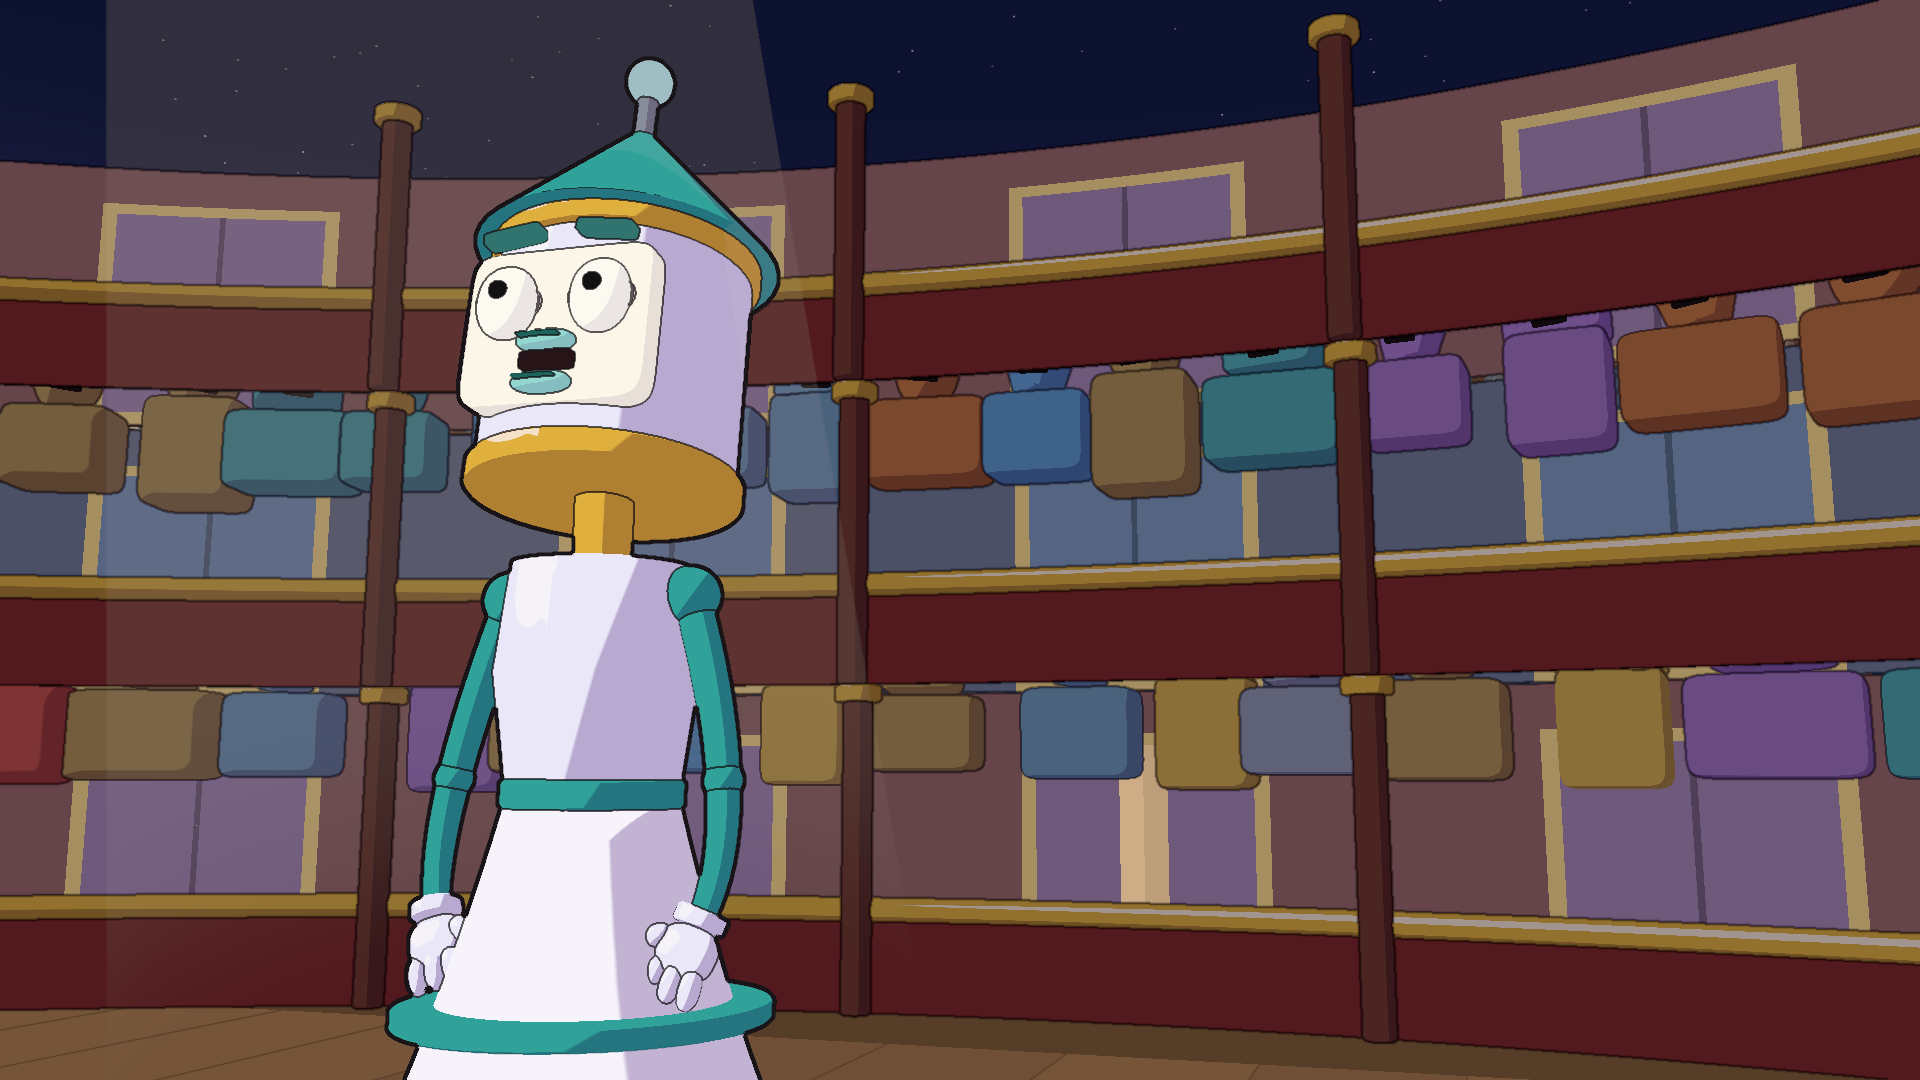
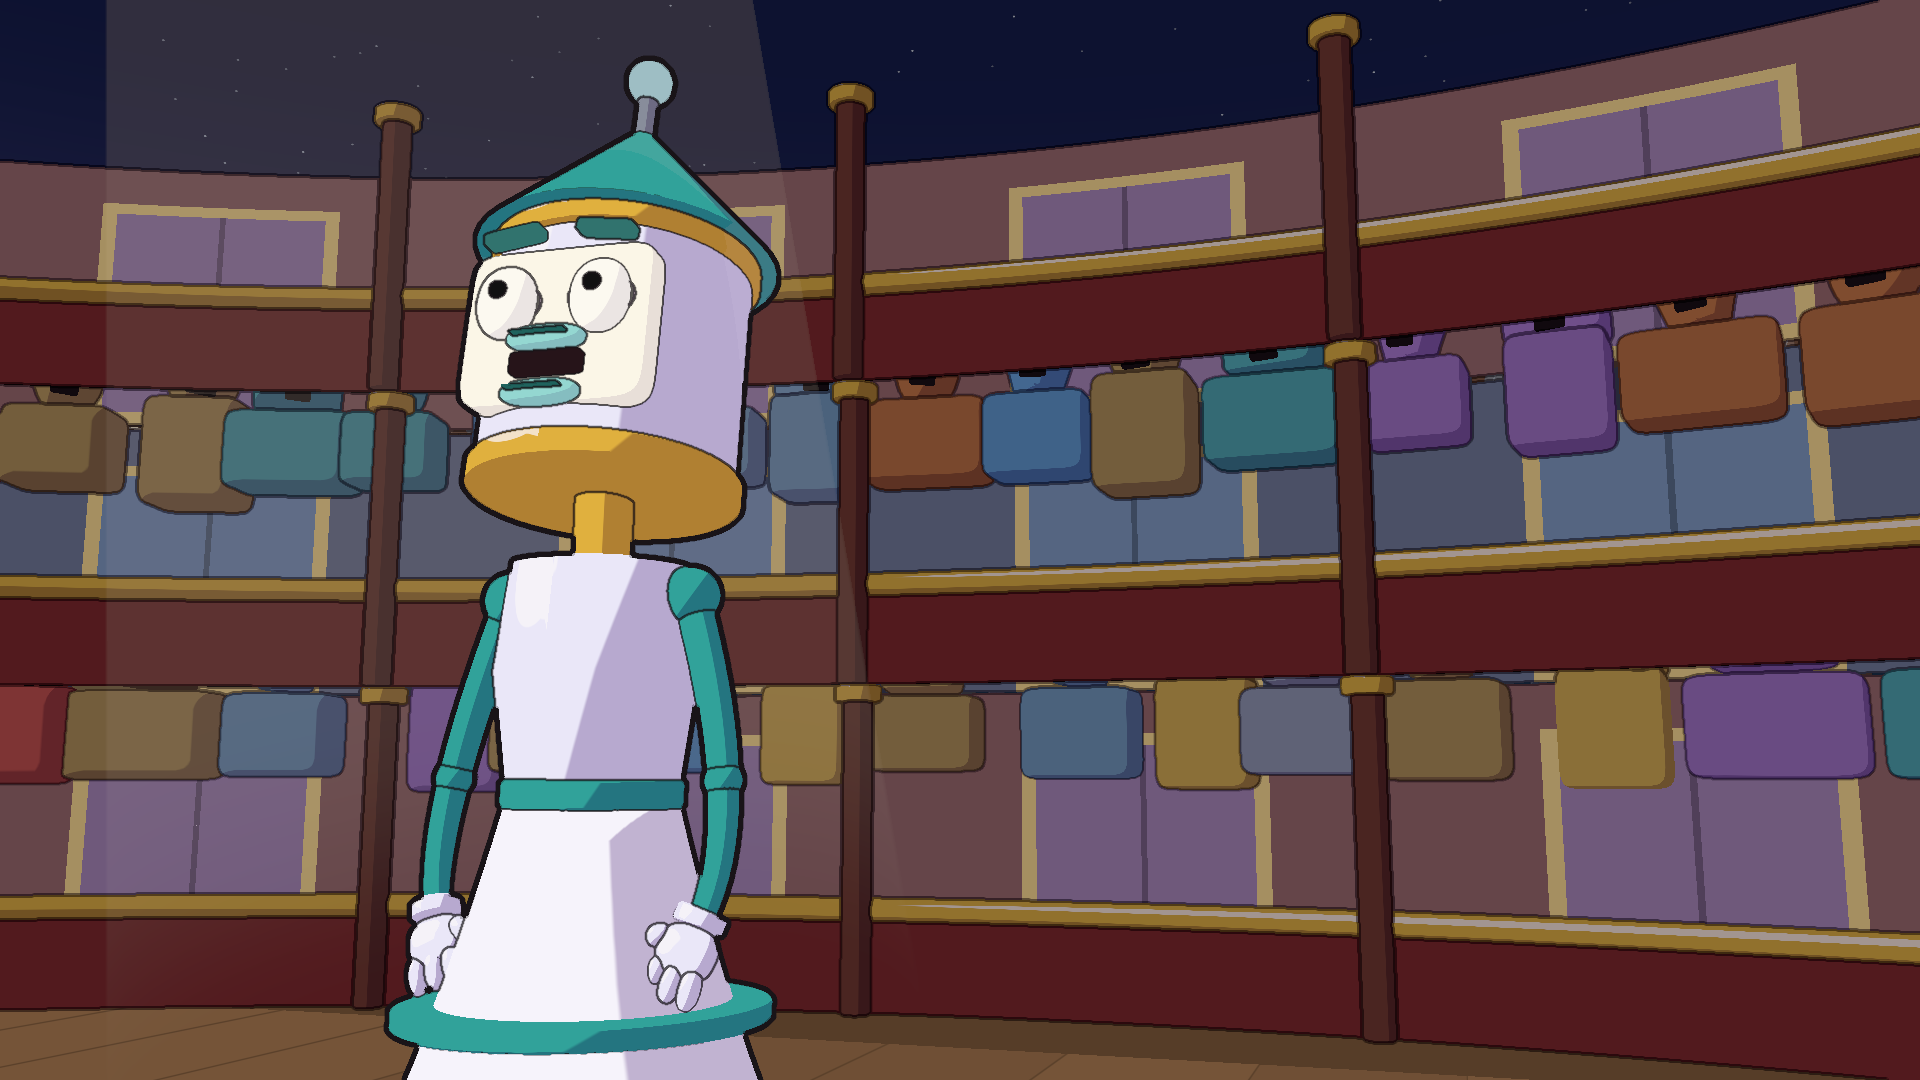
Awakening round 3: theatre wide, door insert, crowd reaction and OTS
Add a composed theatre wide on "A billion minds" (arch, marquee,
footlights up on "A", stalls silhouettes), a lower-tier door insert on
"doors" (house wake delayed 0.5 s in this window so the doors are seen
closed, sliding, then occupants rising in awe), a house-left crowd
reaction with held crowdAwe, and an over-the-shoulder from a
middle-tier spectator while Aria sings "They taught us how to" to the
house. The close-up and closing wide move to house left so the cut to
question's opening keeps screen direction; the closing wide is lower
so the gold neck stays visible. Evidence replaced in qa/awakening.

Claude-Session: https://claude.ai/code/session_011WPKpg2zyQnB4zGcunqiut

diff --git a/visuals/one-more-dawn/src/lib/clips/awakening.ts b/visuals/one-more-dawn/src/lib/clips/awakening.ts
@@ -4,27 +4,31 @@
 // it here; do not edit shared engine, cast or set files from a clip lane.
 //
 // Shot list (song seconds; cuts land on sung words or just before them):
-//   S1  0.00 –  3.57  Establishing: closed curtain, pin spot, curtain parts.
-//   S2  3.57 –  7.20  "A billion minds awaken": full figure, push in to a
-//                      medium close-up as she powers on; brows pop up.
-//   S3  7.20 –  8.75  "Behind a billion": low angle past her face to the
-//                      dark balconies; she hears them and starts to turn.
-//   S4  8.75 – 10.60  "doors": reverse over her shoulder. She faces the
-//                      house, arms lifting in wonder as the doors wave open.
-//   S5 10.60 – 11.45  Reaction insert: one balcony bay turns to look at her
-//                      (she turns back front off screen).
-//   S6 11.45 – 13.00  "They taught us how to": high two-shot from a house-
-//                      left box: Aria with the crowd behind blinking in
-//                      unison; a prim "lesson" hand on "taught".
-//   S7 13.00 – 15.25  "answer": full figure from the stalls over the
-//                      audience heads: the dutiful curtsy and the crowd's
-//                      unison nod in one frame.
-//   S8 15.25 – 17.00  "And never ask": three-quarter close-up from house
-//                      right; worried brows, a doubtful head shake.
-//   S9 17.00 – 19.30  "for more": high angle from the top balcony, the
-//                      house bowed, Aria small in her spot. Ends wide and
-//                      high so the cut to question's frontal medium is a
-//                      clear change of size and angle.
+//   S1  0.00 –  3.57  Pre-show: closed curtain, pin spot, curtain parts.
+//   S2  3.57 –  4.80  "A billion minds": the theatre WIDE from the back of
+//                      the stalls. Arch, marquee, footlights (they come up on
+//                      "A"), stalls silhouettes; Aria small on her pedestal
+//                      under the balconies. Her eyes flicker on "minds".
+//   S3  4.80 –  7.20  "awaken": full figure, push in to a medium close-up
+//                      as she powers on; brows pop up.
+//   S4  7.20 –  8.75  "Behind a billion": low angle past her face to the
+//                      balconies; she hears them and starts to turn.
+//   S5  8.75 – 10.45  "doors": INSERT on the house-right boxes of the lower
+//                      tier. The doors slide apart and the occupants rise,
+//                      faces in awe.
+//   S6 10.45 – 11.30  Crowd reaction: house-left tier faces in awe, heads
+//                      turned to her.
+//   S7 11.30 – 13.00  "They taught us how to": over the shoulder of a
+//                      middle-tier spectator down to Aria, who faces the
+//                      house; prim lesson hand on "taught"; she turns back
+//                      to the front before "answer".
+//   S8 13.00 – 15.25  "answer": from the stalls over the audience heads:
+//                      the dutiful curtsy and the crowd's unison nod.
+//   S9 15.25 – 17.00  "And never ask": three-quarter close-up from house
+//                      left; worried brows, a doubtful head shake.
+//   S10 17.00 – 19.30 "for more": raised wide from a house-left box, the
+//                      house bowed. Same side of the line as question's
+//                      opening shot (house left), but wider and higher.
 
 import type { PerspectiveCamera } from 'three/webgpu';
 import { Vector3 } from 'three/webgpu';
@@ -69,26 +73,37 @@ const w = {
 type CamKey = readonly [number, V3, V3];
 type Shot = { end: number; keys: readonly CamKey[] };
 
+// Over-the-shoulder from the middle tier: just behind and to the right of
+// the house-left spectator whose head is at about [-6.61, 2.96, -5.35].
+// The back wall is only ~0.6 m behind the seats, so the camera sits
+// between the head and the wall (radius < 14.87 from the house centre).
+const OTS_CAM: V3 = [-7.25, 3.12, -5.27];
+const OTS_CAM2: V3 = [-7.2, 3.11, -5.22];
+
 const SHOTS: Shot[] = [
-  // S1 establishing: slow push toward the pin spot; the curtain parts.
+  // S1 pre-show: slow push toward the pin spot; the curtain parts.
   { end: w.a, keys: [[0, [0, 2.45, 14.8], [0, 3.1, 2.0]], [w.a, [0, 2.35, 12.6], [0, 3.0, 1.0]]] },
-  // S2 full figure on the pedestal, then push in to a medium close-up on
+  // S2 the theatre wide from the back of the stalls; a slow creep in.
+  { end: 4.8, keys: [[w.a, [0, 2.85, 19.4], [0, 3.0, 0.0]], [4.8, [0, 2.8, 18.6], [0, 2.95, 0.0]]] },
+  // S3 full figure on the pedestal, then push in to a medium close-up on
   // "awaken" (the move is motivated by her waking).
-  { end: 7.2, keys: [[w.a, [0, 1.5, 5.7], [0, 1.4, -1.0]], [w.awaken - 0.15, [0, 1.55, 5.3], [0, 1.45, -1.0]], [w.awaken + 0.9, [0, 2.1, 2.45], [0, 2.15, -1.0]], [7.2, [0, 2.12, 2.3], [0, 2.15, -1.0]]] },
-  // S3 low angle past Aria to the dark balconies; she starts to turn.
+  { end: 7.2, keys: [[4.8, [0, 1.5, 5.7], [0, 1.4, -1.0]], [w.awaken - 0.15, [0, 1.55, 5.4], [0, 1.45, -1.0]], [w.awaken + 0.9, [0, 2.1, 2.45], [0, 2.15, -1.0]], [7.2, [0, 2.12, 2.3], [0, 2.15, -1.0]]] },
+  // S4 low angle past Aria to the balconies; she starts to turn.
   { end: 8.75, keys: [[7.2, [1.95, 1.4, 2.3], [-0.9, 2.7, -6.6]], [8.75, [1.9, 1.38, 2.2], [-0.75, 3.1, -6.6]]] },
-  // S4 reverse: over her right shoulder onto the waking house.
-  { end: 10.6, keys: [[8.75, [1.75, 2.15, 2.0], [-2.4, 3.1, -6.6]], [10.6, [1.6, 2.35, 1.6], [-2.0, 3.5, -6.6]]] },
-  // S5 reaction insert: two tiers of faces turn toward her.
-  { end: 11.45, keys: [[10.6, [0.3, 3.35, -2.4], [3.4, 4.05, -6.6]], [11.45, [0.4, 3.35, -2.6], [3.4, 4.05, -6.6]]] },
-  // S6 high two-shot from a house-left box: Aria and the crowd behind.
-  { end: 13.0, keys: [[11.45, [-4.3, 3.5, 2.6], [0.9, 2.0, -2.2]], [13.0, [-3.9, 3.35, 2.3], [0.9, 2.0, -2.2]]] },
-  // S7 from the stalls, over the audience heads: curtsy and crowd nod.
+  // S5 door insert: lower tier, house right (boxes 0-1), doors slide and
+  // the occupants rise. The lower tier keeps the frame clear of the tier
+  // above.
+  { end: 10.45, keys: [[8.75, [6.15, 1.2, -1.0], [8.75, 0.95, -4.55]], [10.45, [6.5, 1.18, -1.5], [8.8, 0.98, -4.55]]] },
+  // S6 crowd reaction: house-left lower tier, faces turned to her.
+  { end: 11.3, keys: [[10.45, [-2.0, 1.55, -2.3], [-5.0, 1.55, -6.2]], [11.3, [-2.3, 1.55, -2.6], [-5.0, 1.6, -6.2]]] },
+  // S7 over a middle-tier spectator's shoulder, down to Aria.
+  { end: 13.0, keys: [[11.3, OTS_CAM, [0.0, 1.85, -1.0]], [13.0, OTS_CAM2, [0.0, 1.8, -1.0]]] },
+  // S8 from the stalls, over the audience heads: curtsy and crowd nod.
   { end: 15.25, keys: [[13.0, [-0.9, 1.25, 8.4], [0, 1.85, -1.2]], [15.25, [-0.7, 1.3, 7.8], [0, 1.9, -1.2]]] },
-  // S8 three-quarter close-up from house right for the head shake.
-  { end: 17.0, keys: [[15.25, [1.25, 2.4, 1.05], [-0.05, 2.42, -1.0]], [17.0, [1.1, 2.4, 0.9], [-0.05, 2.42, -1.0]]] },
-  // S9 high angle from the top balcony, house right, looking down at her.
-  { end: END, keys: [[17.0, [2.4, 5.0, 2.4], [0.0, 1.5, -1.6]], [END, [3.0, 6.1, 3.3], [0.0, 1.3, -1.7]]] },
+  // S9 three-quarter close-up from house left for the head shake.
+  { end: 17.0, keys: [[15.25, [-1.25, 2.4, 1.05], [0.05, 2.42, -1.0]], [17.0, [-1.1, 2.4, 0.9], [0.05, 2.42, -1.0]]] },
+  // S10 raised wide from a house-left box; a slow pull back.
+  { end: END, keys: [[17.0, [-3.8, 3.3, 5.0], [0.0, 1.6, -1.2]], [END, [-4.8, 3.7, 6.6], [0.0, 1.55, -1.2]]] },
 ];
 
 function shotCamera(t: number, cam: PerspectiveCamera): void {
@@ -147,12 +162,13 @@ function ariaFrame(t: number, cast: Cast): void {
   p.browTilt = SAD * (1 - boot) * -0.3;
   p.lid = Math.max(0, p.lid - surprise * 0.12);
 
-  // Wonder at the doors. She hears the house wake, turns upstage to face
-  // it (S4 is shot over her shoulder), follows the door wave, then turns
-  // back to the front before "They" (hidden by the S5 insert).
+  // Wonder at the doors. She hears the house wake and turns upstage to
+  // face the house-left boxes (S4 catches the start of the turn), follows
+  // the door wave, sings "They taught us how to" to the house (S7), then
+  // turns back to the front just before "answer".
   const wonder = span(t, w.behind - 0.2, w.they - 0.3, 0.6, 0.8);
-  const turn = ramp(t, w.behind + 0.85, w.doors + 0.1, smooth) * (1 - ramp(t, 10.45, 11.3, smooth));
-  p.yaw = lerp(p.yaw, -2.45, turn);
+  const turn = ramp(t, w.behind + 0.85, w.doors + 0.1, smooth) * (1 - ramp(t, 12.35, 12.95, smooth));
+  p.yaw = lerp(p.yaw, -2.15, turn);
   const lookYaw = keys(t, [[w.behind - 0.2, 0], [w.behind + 0.4, 0.05], [w.doors - 0.2, 0.35], [w.doors + 0.9, -0.3], [10.4, -0.1], [w.they, 0]]);
   p.headYaw = lerp(p.headYaw, lookYaw, wonder);
   p.twist = lookYaw * 0.25 * wonder;
@@ -252,6 +268,11 @@ function blendPose(p: Pose, d: Pose, u: number): void {
 
 // ---------------------------------------------------------------- lighting
 
+// Weight for overrides that must have handed back by the end of the clip.
+function own0(t: number): number {
+  return 1 - ramp(t, END - 0.6, END - 0.25);
+}
+
 function lightFrame(t: number): void {
   // Pre-show: the pin spot on the closed curtain fades up on the opening
   // piano note, then dies as the curtain parts.
@@ -261,6 +282,15 @@ function lightFrame(t: number): void {
   const spot = keys(t, [[0, 0], [w.a - 0.05, 0], [w.a + 0.35, 0.4], [w.awaken - 0.05, 0.4], [w.awaken + 0.35, 1.15], [END - 0.8, 1.05], [END, 1.0]], smooth);
   const s = light.spots[0];
   setSpot(0, ariaPos.x, ariaPos.z, 1.0, spot, s.color.value);
+
+  // The theatre comes up on the first sung word ("A"): footlights and the
+  // proscenium neon reach their pre-show level so the S2 wide reads.
+  const up = ramp(t, w.a - 0.05, w.a + 0.45, smooth) * own0(t);
+  set.footLevel.value = Math.max(set.footLevel.value, 0.24 * up);
+  set.neonLevel.value = Math.max(set.neonLevel.value, 0.55 * up);
+  // Awe as the doors open, held through the reaction shot and the first
+  // words to them, then it fades before the dutiful lesson.
+  set.crowdAwe = Math.max(set.crowdAwe, span(t, w.behind, w.how + 0.2, 0.6, 0.7));
 
   // Crowd: unison blinks on "taught" and "answer", a unison nod on
   // "answer", and heads bow on "never ask for more" (kept from default).
@@ -286,6 +316,10 @@ export const clip = {
     // first sung word.
     defaultFrame(t, cast, cam);
     set.curtainOpen = ramp(t, 1.3, 3.45, smooth);
+    // The house wakes half a beat later than the default cue so the S5
+    // insert sees its doors closed, sliding, then the occupants rising on
+    // "doors". Everything is open long before the hand-off.
+    set.wallWakeAt.value = (set.wallWakeAt.value as number) + 0.5;
     ariaFrame(t, cast);
     lightFrame(t);
     shotCamera(t, cam);
